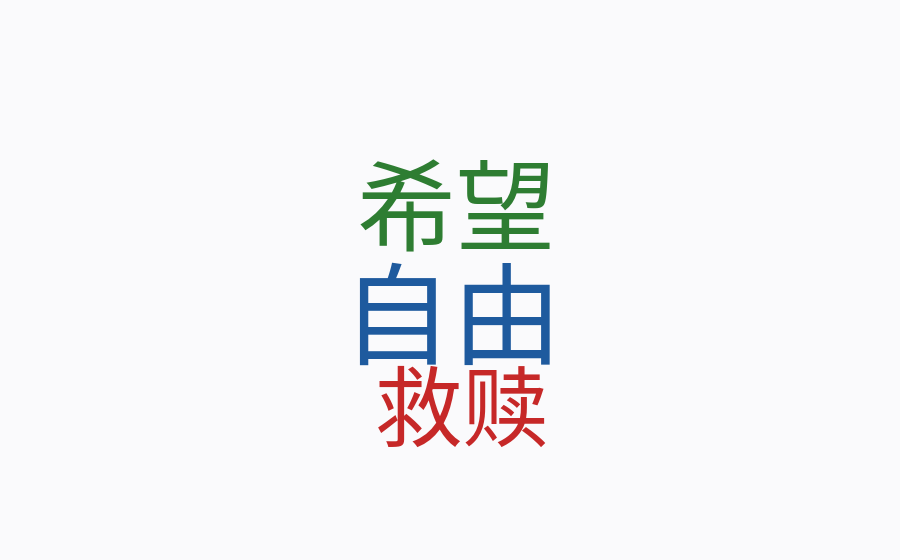
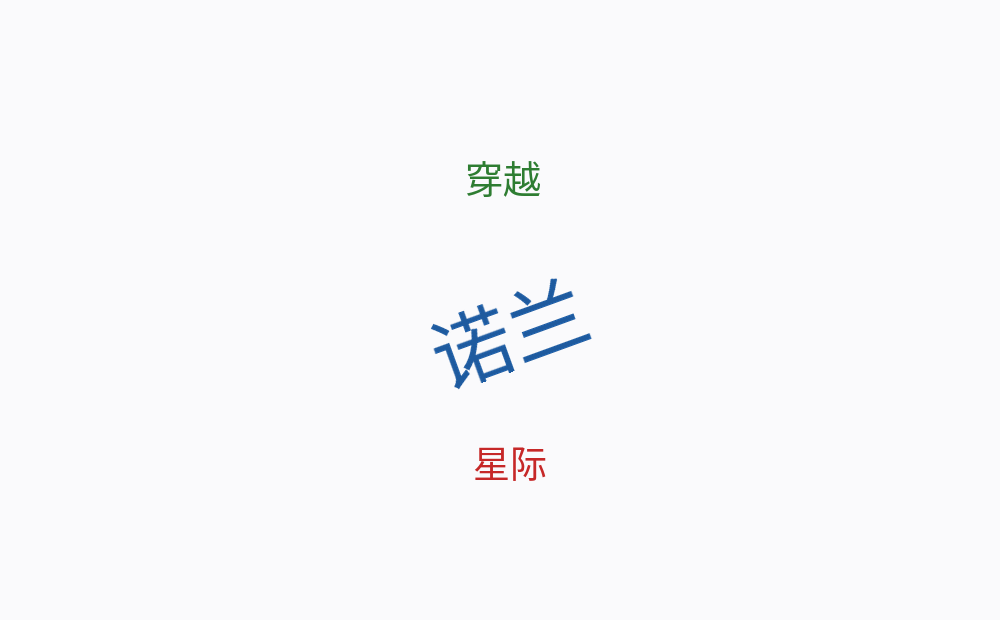
feat(viz): 趋势按月统计(横轴 年份-月)；词云改为真实网页风格(多词/旋转/缩小重试)
- analytics.trend：按月聚合 date=YYYY-MM
- wordcloud_img：亚线性字号、螺旋+随机旋转±30°、放不下自动缩小重试，尽量铺满多词
- 实测《星际穿越》：趋势收敛为 2014-11 上映月 53 条(pos39/neg14)；词云 40 词 19KB

Changed region(s): [[0.3733, 0.2429, 0.6222, 0.8196]]

diff --git a/backend/app/services/wordcloud_img.py b/backend/app/services/wordcloud_img.py
@@ -1,9 +1,10 @@
-"""把热点词列表渲染成词云 PNG 图片（供前端 Image 直接展示 / 导出）。
+"""把热点词列表渲染成"真实网页风格"词云 PNG（多词、错落、带旋转）。
 
-用 PIL 自绘（螺旋放置、字号按权重、随机配色），避免引入 wordcloud 依赖；
-PIL / 中文字体在多数系统可用。依赖中文字体，找不到时报错会给出提示。
+用 PIL 自绘：词按权重从大到小，沿螺旋找空位、部分随机旋转 ±30°；
+放不下就自动缩小再试，最终尽量让所有词都落上去。不依赖外部 wordcloud 库。
 """
 import math
+import random
 from io import BytesIO
 
 _FONT_CANDIDATES = [
@@ -14,7 +15,8 @@ _FONT_CANDIDATES = [
     "C:/Windows/Fonts/simhei.ttf",
 ]
 _COLORS = ["#1E5A9E", "#2E7D32", "#C62828", "#6A1B9A",
-           "#E65100", "#37474F", "#00796B", "#1565C0"]
+           "#E65100", "#37474F", "#00796B", "#1565C0",
+           "#8E24AA", "#00897B", "#5D4037", "#455A64"]
 
 
 def _pick_font_path() -> str:
@@ -25,8 +27,16 @@ def _pick_font_path() -> str:
     raise FileNotFoundError("未找到中文字体，请安装 Noto CJK 或把路径加进 _FONT_CANDIDATES")
 
 
-def build(words: list[dict], width: int = 900, height: int = 560,
-          max_size: int = 110, min_size: int = 16) -> bytes:
+def _collides(box: tuple, boxes: list[tuple], pad: int = 6) -> bool:
+    x0, y0, x1, y1 = box
+    for a0, b0, a1, b1 in boxes:
+        if not (x1 + pad < a0 or a1 + pad < x0 or y1 + pad < b0 or b1 + pad < y0):
+            return True
+    return False
+
+
+def build(words: list[dict], width: int = 1000, height: int = 620,
+          max_size: int = 80, min_size: int = 12) -> bytes:
     """words: [{word, weight}, ...] -> PNG bytes。"""
     from PIL import Image, ImageDraw, ImageFont
 
@@ -38,45 +48,60 @@ def build(words: list[dict], width: int = 900, height: int = 560,
         maxw = 1.0
     font_path = _pick_font_path()
 
+    # 权重 -> 字号：亚线性，避免少数大词霸屏
     items = []
     for w in ws:
-        size = int(min_size + (max_size - min_size)
-                   * math.sqrt(float(w.get("weight") or 1.0) / maxw))
+        ratio = float(w.get("weight") or 1.0) / maxw
+        size = int(min_size + (max_size - min_size) * (ratio ** 0.6))
         items.append((str(w["word"]).strip(), size))
     items.sort(key=lambda x: x[1], reverse=True)
 
     img = Image.new("RGBA", (width, height), (250, 250, 252, 255))
-    draw = ImageDraw.Draw(img)
-    placed: list[tuple] = []
     cx, cy = width / 2, height / 2
+    placed: list[tuple] = []
 
-    for idx, (word, size) in enumerate(items):
-        font = ImageFont.truetype(font_path, size)
-        l, t, r, b = font.getbbox(word)
-        tw, th = r - l, b - t
-        box = None
-        for step in range(1, 3000):          # 阿基米德螺旋找空位
-            a = 0.25 * step
-            rad = 2.3 * math.sqrt(step)
-            x = max(2.0, min(width - tw - 2, cx + rad * math.cos(a) - tw / 2))
-            y = max(2.0, min(height - th - 2, cy + rad * math.sin(a) - th / 2))
-            cand = (int(x), int(y), int(x + tw), int(y + th))
-            if not _collides(cand, placed):
-                box = cand
+    for idx, (word, size0) in enumerate(items):
+        color = _COLORS[idx % len(_COLORS)]
+        size = size0
+        ok = False
+        for _ in range(10):                      # 放不下则缩小重试
+            font = ImageFont.truetype(font_path, size)
+            l, t, r, b = font.getbbox(word)
+            tw, th = r - l, b - t
+            pad = 24
+            layer = Image.new("RGBA", (tw + pad * 2, th + pad * 2), (0, 0, 0, 0))
+            d = ImageDraw.Draw(layer)
+            d.text((pad, pad), word, font=font, fill=color)
+            angle = 0.0
+            if size0 > min_size + 6 and random.random() < 0.45:
+                angle = float(random.choice((-30, -20, -12, 12, 20, 30)))
+            if angle:
+                layer = layer.rotate(angle, expand=True,
+                                     resample=Image.Resampling.BICUBIC)
+            ww, hh = layer.size
+            box = None
+            for s in range(1, 6000):             # 阿基米德螺旋找空位
+                a = 0.12 * s
+                rad = 1.9 * math.sqrt(s)
+                x = int(cx + rad * math.cos(a) - ww / 2)
+                y = int(cy + rad * math.sin(a) - hh / 2)
+                x = max(2, min(width - ww - 2, x))
+                y = max(2, min(height - hh - 2, y))
+                cand = (x, y, x + ww, y + hh)
+                if not _collides(cand, placed, pad=6):
+                    box = cand
+                    break
+            if box is not None:
+                img.alpha_composite(layer, (box[0], box[1]))
+                placed.append(box)
+                ok = True
                 break
-        if box is None:
+            size = int(size * 0.8)
+            if size < min_size:
+                break
+        if not ok:      # 极少数实在放不下，跳过（不影响整体）
             continue
-        placed.append(box)
-        draw.text((box[0], box[1]), word, font=font, fill=_COLORS[idx % len(_COLORS)])
 
     buf = BytesIO()
     img.convert("RGB").save(buf, format="PNG")
     return buf.getvalue()
-
-
-def _collides(box: tuple, boxes: list[tuple], pad: int = 6) -> bool:
-    x0, y0, x1, y1 = box
-    for a0, b0, a1, b1 in boxes:
-        if not (x1 + pad < a0 or a1 + pad < x0 or y1 + pad < b0 or b1 + pad < y0):
-            return True
-    return False

diff --git a/backend/app/services/analytics.py b/backend/app/services/analytics.py
@@ -94,11 +94,13 @@ def stats(db, context: str | None = "whole") -> dict:
 def trend(db, context: str | None = "whole", limit_days: int | None = None) -> list[dict]:
     conds = _scope(db, context)
     label = _label_expr()
-    # 优先按评论"原始发表时间"分桶（爬取的豆瓣评论带时间），否则回退到入库时间
-    day = func.date(func.coalesce(models.Review.review_time, models.Review.created_at))
+    # 按月统计（YYYY-MM，横轴"年份-月"）；时间优先取评论原始发表时间，否则回退入库时间
+    month = func.strftime("%Y-%m",
+                          func.coalesce(models.Review.review_time,
+                                        models.Review.created_at))
     rows = db.execute(
-        select(day, label, func.count())
-        .where(*conds).group_by(day, label)
+        select(month, label, func.count())
+        .where(*conds).group_by(month, label)
     ).all()
     by_day: dict[str, dict] = {}
     for day, lab, cnt in rows:

diff --git a/docs/3_接口契约文档.md b/docs/3_接口契约文档.md
@@ -81,12 +81,12 @@ label = pred_label  →  ground_truth  →  豆瓣星级(≥4 正 / ≤2 负；3
     "poster": "/static/posters/douban_1889243.jpg", "review_count": 60},
   "total": 60, "dist": {"positive": 43, "negative": 17},
   "avg_confidence": 0.776,
-  "trend": [ {"date": "2014-11-05", "total": 1, "positive": 1, "negative": 0}, … ],
+  "trend": [ {"date": "2014-11", "total": 53, "positive": 39, "negative": 14}, … ],
   "top_words": [{"word": "诺兰", "weight": 5}, …],
   "cloud": [{"word": "…", "weight": …}],
   "polarity": {"pos": [{"word": "黑洞", "weight": …}], "neg": [{"word": "可惜", "weight": …}]} }
 ```
-- `trend`：按评论**原始发表时间**逐日分桶，做"随时间变好变坏"图；`total` 含未标注
+- `trend`：**按月**聚合（`date` 形如 `2014-11`，横轴"年份-月"），做"随时间变好变坏"图；`total` 含未标注
 - `avg_confidence`：该上下文内模型预测置信度的均值（`prob` 均值）；无预测则为 null
 - 置信度低（~0.5）的评论即"中性/模棱两可"，前端可用置信度做深浅/灰显
 
